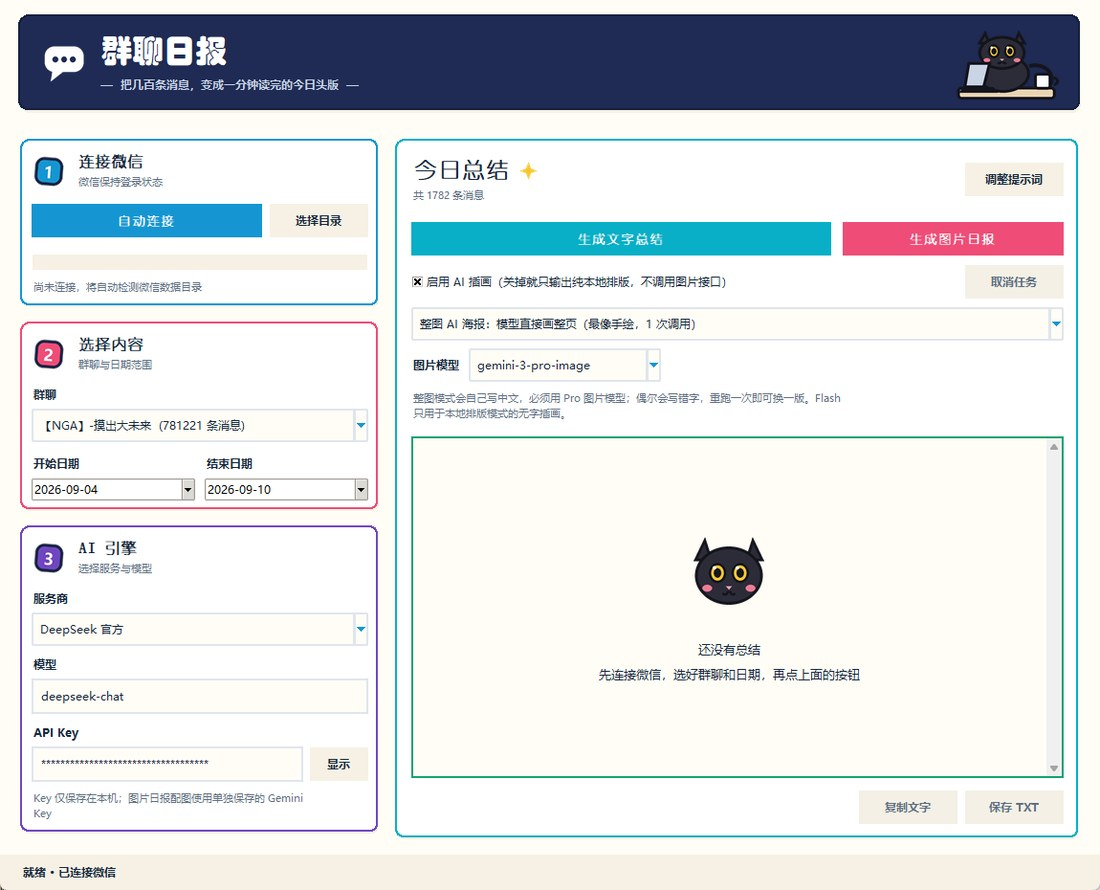
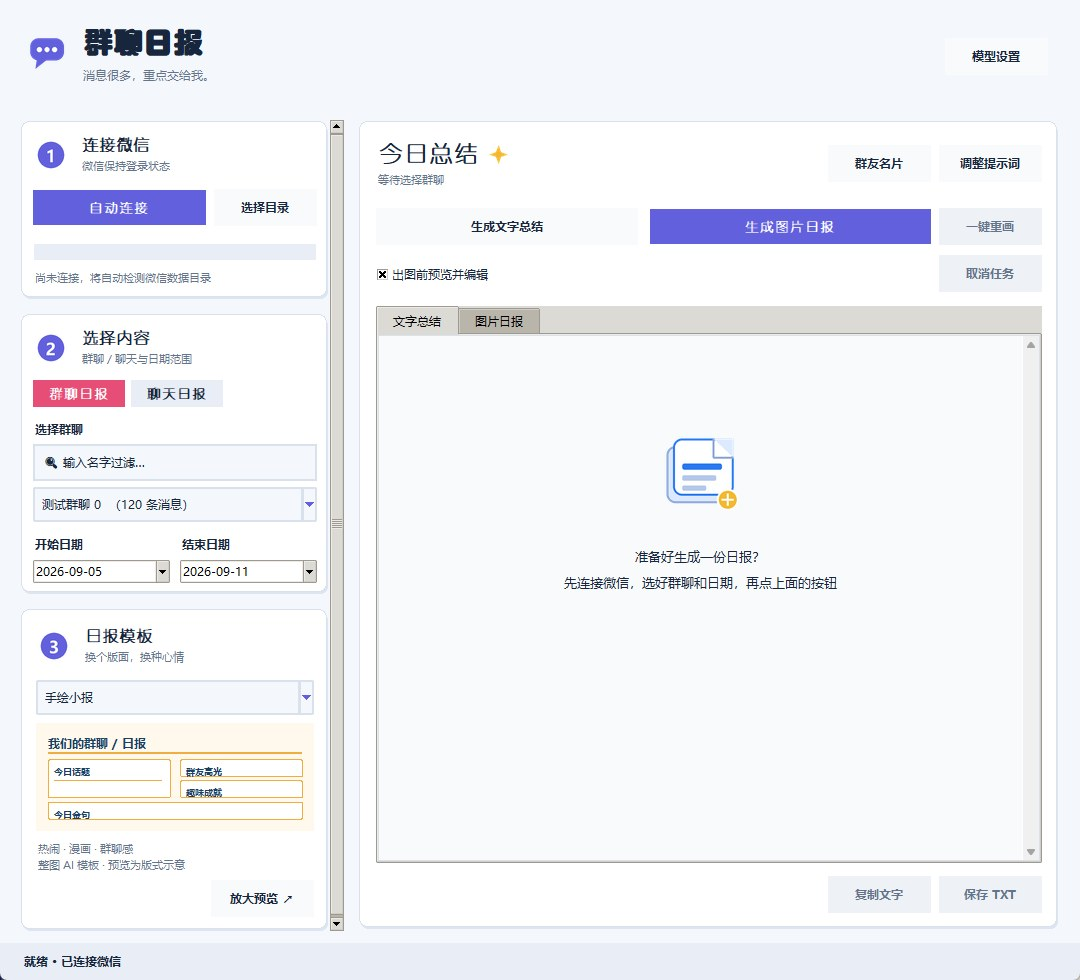
docs: refresh 界面说明 screenshot and table to the current UI
The ui-example.jpg still showed the pre-toggle UI (AI settings inline, no
群聊/聊天 switch, no search box). Replace it with a current-UI capture
showing the 群聊日报/聊天日报 toggle, the chat search box, the 模型设置
button, the 日报模板 card and the result tabs, and update the accompanying
区域 table to match.

Changed region(s): [[0.0, 0.0, 1.0, 1.0], [0.5194, 0.5461, 0.7944, 0.6978], [0.55, 0.7281, 0.7944, 0.7888]]

diff --git a/README.md b/README.md
@@ -200,13 +200,12 @@ bash build_app.sh v1.8.1
 
 | 区域 | 说明 |
 |------|------|
-| 第一步：初始化 | 读取微信数据库，获取群聊列表 |
-| 第二步：选择群聊 | 从下拉框选择要总结的群 |
-| 第三步：时间范围 | 选择起止日期 |
-| 生成总结 | 调用 AI 生成摘要 |
-| 第四步：AI 服务 | 默认选择 Gemini 3.8；也可切换 DeepSeek，并编辑模型名 |
-| 插画模式 | 在「生成图片日报」下方选画法，并挑选对应的图片模型 |
-| 生成图片日报 | 输出单张方形信息图 PNG：整图 AI 海报或本地手绘模板 |
+| ① 连接微信 | 「自动连接」读取并解密本机微信数据库；也可「选择目录」手动指定 |
+| ② 选择内容 | 顶部切换 群聊日报 / 聊天日报；搜索框按名字过滤会话；选择会话与起止日期 |
+| ③ 日报模板 | 挑选整图海报模板（手绘小报 / 周末杂志 / 薄荷快报 / 午夜电台），可放大预览 |
+| 模型设置（右上角） | 选服务商与模型、填 API Key；各家 Key 独立保存 |
+| 生成文字总结 / 生成图片日报 | 文字摘要，或一页方形图片日报；结果在右侧标签页查看 |
+| 插画模式 | 「生成图片日报」下方选画法：整图 AI 海报或本地排版 + 免费/付费插画 |
 
 ---
 
